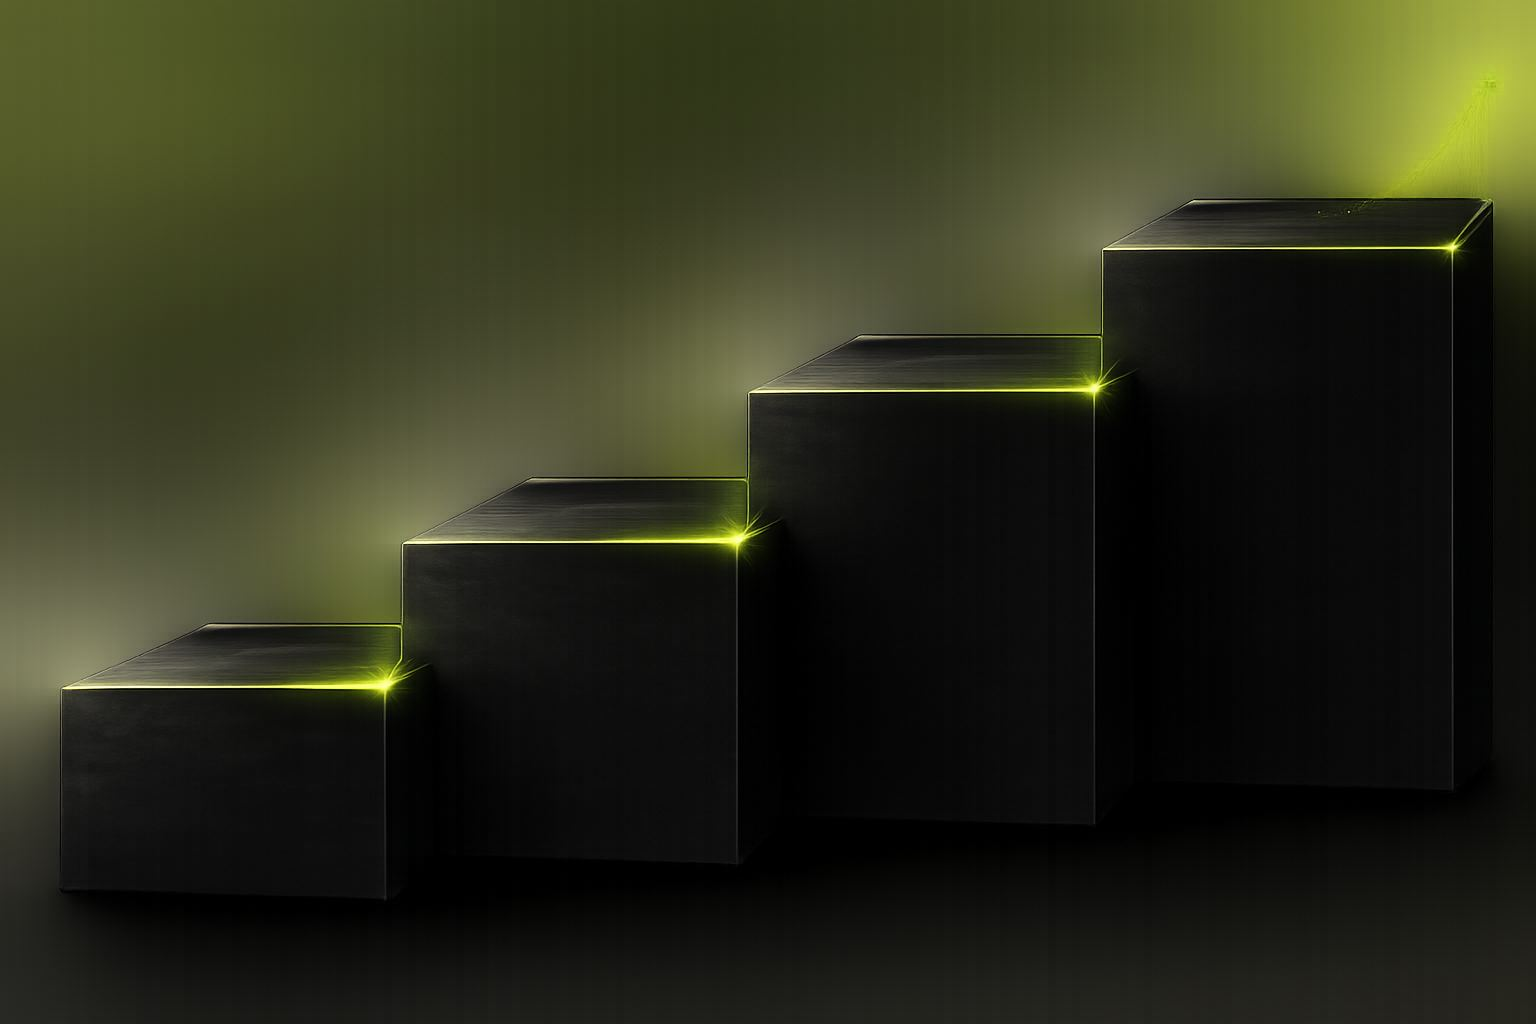
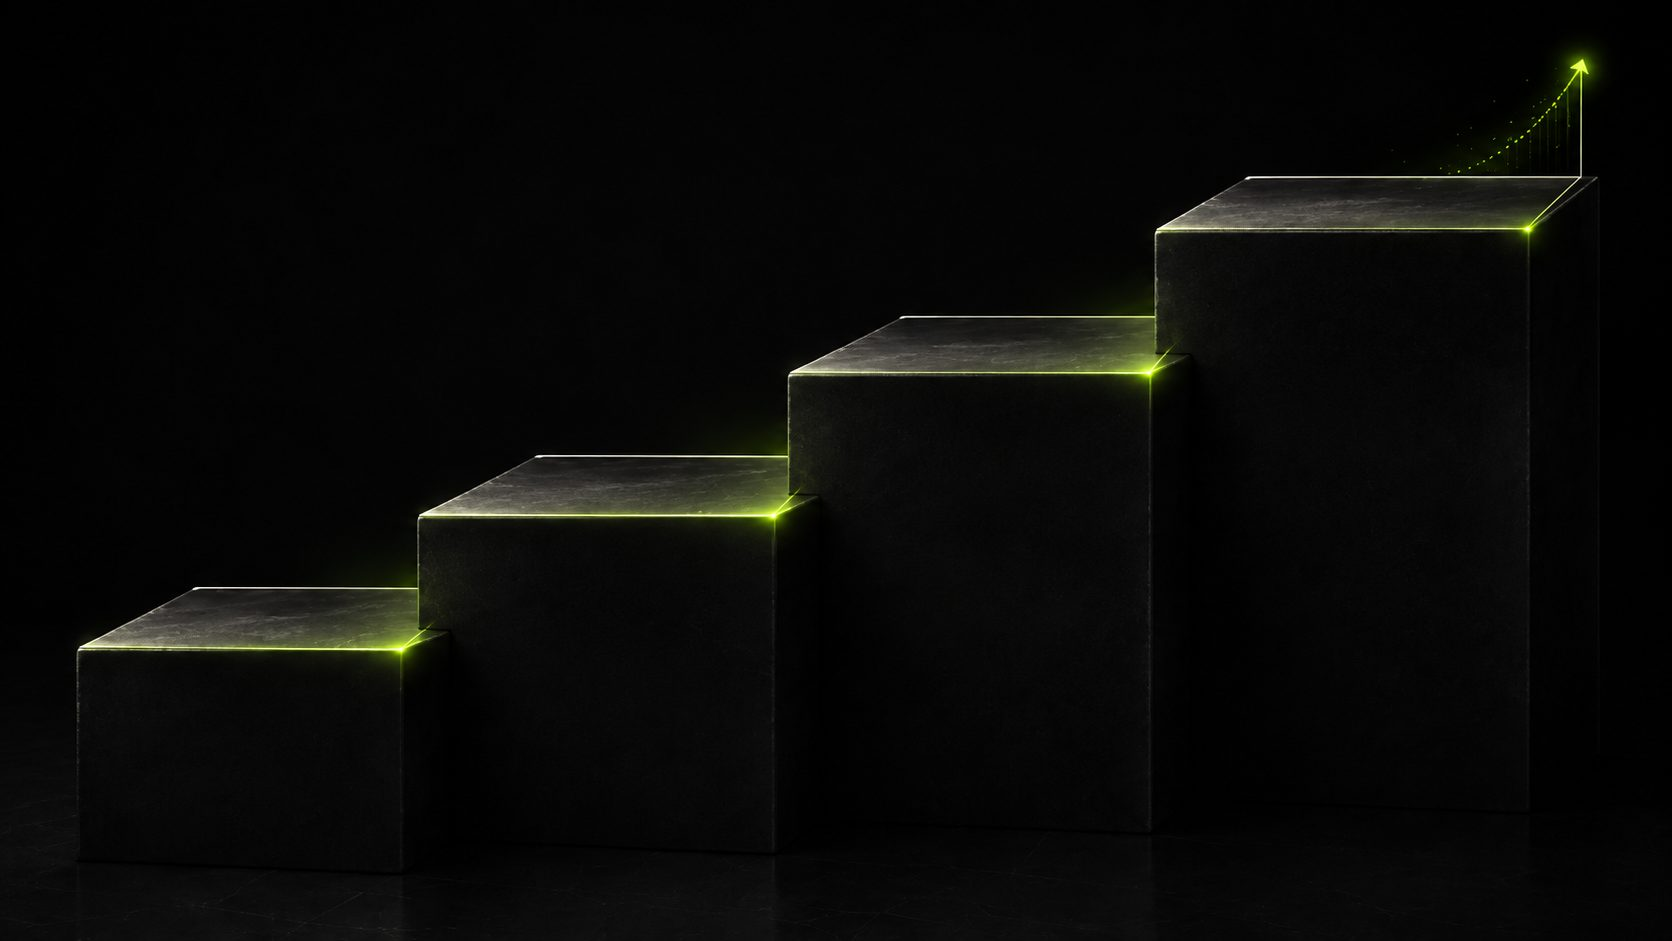
Заменить картинку лестницы на чистый рендер без зелёной дымки
Пользователь прислал оригинальный рендер (чёрный фон, чёткие неоновые
грани, стрелка-график без размытого блика) — им заменён stairs-final.jpg,
где ранее был мутный зелёный туман по всему кадру и смазанная вспышка
в углу. object-position сдвинут вправо (68% 50%), чтобы при
object-fit:cover не обрезало наконечник стрелки — новая картинка шире
контейнера (16:9 вместо 3:2).

diff --git a/site/index.html b/site/index.html
@@ -711,7 +711,7 @@ h2.sec-title{
   position:absolute;inset:0;overflow:hidden;
 }
 .stairs-photo img{
-  display:block;width:100%;height:100%;object-fit:cover;
+  display:block;width:100%;height:100%;object-fit:cover;object-position:68% 50%;
 }
 
 .stairs-head,.stairs-lead{
